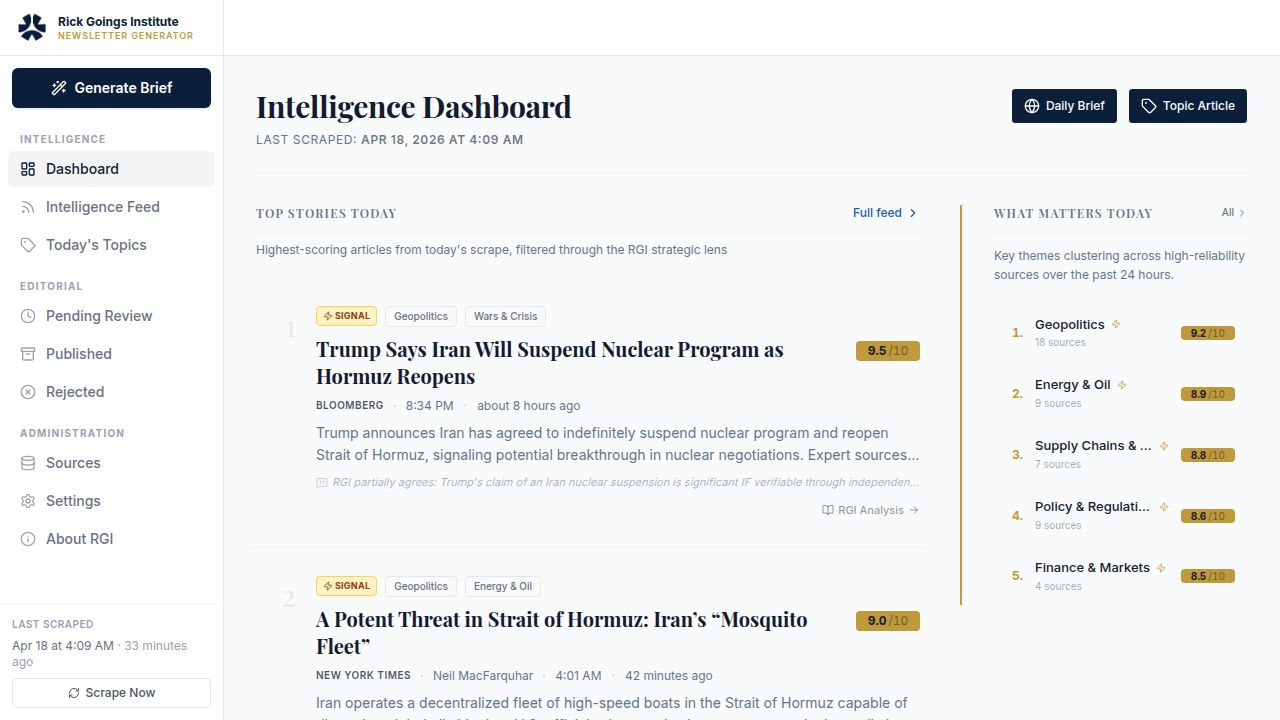
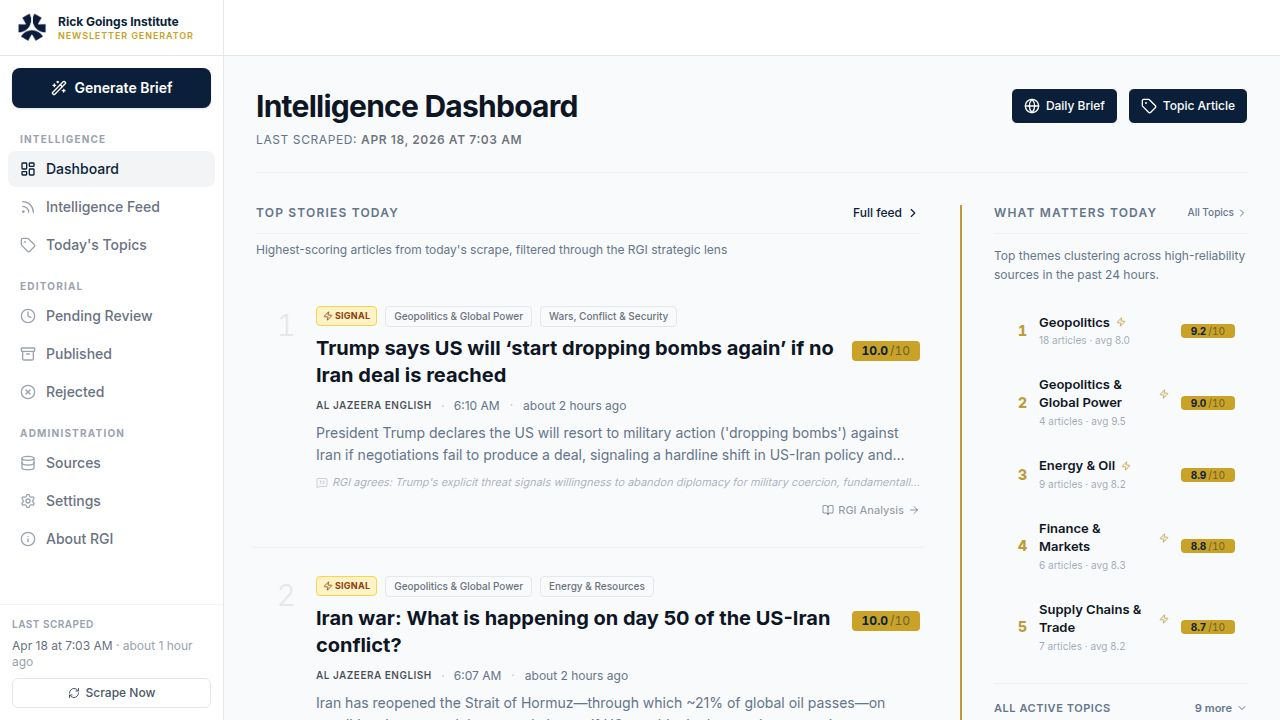
Update application and PDF designs for a consistent, professional look
Refactor UI elements and color variables across the application and PDF generator to implement a unified design system, including new typography, color palette, and spacing.

Replit-Commit-Author: Agent
Replit-Commit-Session-Id: 3881efc2-34ba-4643-8362-d1fa5954c660
Replit-Commit-Checkpoint-Type: full_checkpoint
Replit-Commit-Event-Id: f00bbded-45fe-4246-9da2-726b1b0424b5
Replit-Commit-Screenshot-Url: https://storage.googleapis.com/screenshot-production-us-central1/35dd0280-5cb6-4537-8cd2-e074db10bf36/3881efc2-34ba-4643-8362-d1fa5954c660/THni82T
Replit-Helium-Checkpoint-Created: true

diff --git a/artifacts/rgi-digest/src/index.css b/artifacts/rgi-digest/src/index.css
@@ -50,9 +50,12 @@
   --color-sidebar-accent-border: var(--sidebar-accent-border);
   --color-sidebar-ring: hsl(var(--sidebar-ring));
 
+  /* Brand gold — used sparingly for high-priority accents */
+  --color-gold: hsl(var(--gold));
+
   --font-sans: var(--app-font-sans);
-  --font-serif: var(--app-font-serif);
-  --font-mono: var(--app-font-mono);
+  --font-serif: var(--app-font-sans);
+  --font-mono: var(--app-font-sans);
 
   --radius-sm: calc(var(--radius) - 4px);
   --radius-md: calc(var(--radius) - 2px);
@@ -61,69 +64,73 @@
 }
 
 :root {
-  /* ── Light editorial theme — RGI Intelligence Dashboard ── */
+  /* ── RGI–Crummer Design System ─────────────────────────────────────────────
+     Primary:  #0B1F3B  →  hsl(215 69% 14%)
+     Gold:     #C9A227  →  hsl(45  68% 47%)
+     BG:       #F7F8FA  (soft near-white)
+     Text:     #111827  (near-black, readable)
+  ─────────────────────────────────────────────────────────────────────────── */
 
-  /* Main content: clean white/near-white background, dark navy text */
-  --background: 210 20% 98%;
-  --foreground: 222 44% 13%;
+  --background: 216 20% 97%;
+  --foreground: 222 44% 10%;
 
-  /* Cards: pure white with subtle border */
+  /* Cards: pure white with subtle border + shadow via Tailwind shadow-sm */
   --card: 0 0% 100%;
-  --card-foreground: 222 44% 13%;
-  --card-border: 220 14% 90%;
+  --card-foreground: 222 44% 10%;
+  --card-border: 220 14% 91%;
 
   --popover: 0 0% 100%;
-  --popover-foreground: 222 44% 13%;
+  --popover-foreground: 222 44% 10%;
   --popover-border: 220 14% 88%;
 
-  /* RGI blue — primary accent for buttons, links, highlights */
-  --primary: 213 72% 40%;
+  /* Primary — deep navy #0B1F3B */
+  --primary: 215 69% 14%;
   --primary-foreground: 0 0% 100%;
 
-  /* Secondary — very light gray for subtle UI elements */
+  /* Secondary — very light gray for subtle UI */
   --secondary: 210 16% 93%;
-  --secondary-foreground: 222 44% 22%;
+  --secondary-foreground: 222 44% 20%;
 
-  /* Muted — light gray surface, medium gray text */
+  /* Muted */
   --muted: 210 16% 94%;
   --muted-foreground: 215 16% 47%;
 
   --accent: 210 16% 93%;
-  --accent-foreground: 222 44% 22%;
+  --accent-foreground: 222 44% 20%;
 
   --destructive: 0 70% 48%;
   --destructive-foreground: 0 0% 100%;
 
   --border: 220 14% 90%;
   --input: 220 14% 90%;
-  --ring: 213 72% 40%;
+  --ring: 215 69% 14%;
 
-  /* ── Sidebar: stays dark navy as accent navigation ── */
+  /* Brand gold #C9A227 */
+  --gold: 45 68% 47%;
+
+  /* Sidebar stays white/light to match the nav panel */
   --sidebar: 222 47% 7%;
   --sidebar-foreground: 210 30% 92%;
   --sidebar-border: 220 30% 15%;
-  --sidebar-primary: 213 72% 62%;
+  --sidebar-primary: 215 60% 58%;
   --sidebar-primary-foreground: 0 0% 100%;
   --sidebar-accent: 220 30% 14%;
   --sidebar-accent-foreground: 210 30% 92%;
-  --sidebar-ring: 213 72% 55%;
+  --sidebar-ring: 215 60% 52%;
 
-  /* Typography stack */
-  --app-font-sans: "Inter", system-ui, sans-serif;
-  --app-font-serif: "Playfair Display", Georgia, "Times New Roman", serif;
-  --app-font-mono: "Space Mono", Menlo, monospace;
+  /* Single font stack — Inter throughout */
+  --app-font-sans: "Inter", ui-sans-serif, system-ui, -apple-system, sans-serif;
 
-  --radius: 0.375rem;
+  --radius: 0.5rem;
 
-  /* Light-mode outline/elevation tokens */
-  --button-outline: rgba(0, 0, 0, 0.08);
-  --badge-outline: rgba(0, 0, 0, 0.06);
-  --opaque-button-border-intensity: 9;
+  /* Elevation tokens */
+  --button-outline: rgba(0, 0, 0, 0.07);
+  --badge-outline: rgba(0, 0, 0, 0.05);
   --elevate-1: rgba(0, 0, 0, 0.02);
   --elevate-2: rgba(0, 0, 0, 0.04);
 }
 
-/* .dark applies only to the sidebar (via explicit class on <aside>) */
+/* .dark — sidebar only */
 .dark {
   --background: 222 47% 9%;
   --foreground: 210 30% 96%;
@@ -133,7 +140,7 @@
   --popover: 222 47% 13%;
   --popover-foreground: 210 30% 96%;
   --popover-border: 220 30% 20%;
-  --primary: 213 72% 55%;
+  --primary: 215 60% 58%;
   --primary-foreground: 0 0% 100%;
   --secondary: 220 30% 20%;
   --secondary-foreground: 210 30% 96%;
@@ -145,19 +152,20 @@
   --destructive-foreground: 210 30% 96%;
   --border: 220 30% 20%;
   --input: 220 30% 20%;
-  --ring: 213 72% 55%;
+  --ring: 215 60% 58%;
+  --gold: 45 68% 52%;
   --sidebar: 222 47% 7%;
   --sidebar-foreground: 210 30% 92%;
   --sidebar-border: 220 30% 15%;
-  --sidebar-primary: 213 72% 62%;
+  --sidebar-primary: 215 60% 62%;
   --sidebar-primary-foreground: 0 0% 100%;
   --sidebar-accent: 220 30% 14%;
   --sidebar-accent-foreground: 210 30% 92%;
-  --sidebar-ring: 213 72% 55%;
-  --button-outline: rgba(255,255,255, .10);
-  --badge-outline: rgba(255,255,255, .05);
-  --elevate-1: rgba(255,255,255, .03);
-  --elevate-2: rgba(255,255,255, .07);
+  --sidebar-ring: 215 60% 55%;
+  --button-outline: rgba(255, 255, 255, 0.08);
+  --badge-outline: rgba(255, 255, 255, 0.04);
+  --elevate-1: rgba(255, 255, 255, 0.03);
+  --elevate-2: rgba(255, 255, 255, 0.06);
 }
 
 @layer base {
@@ -172,36 +180,46 @@
     -moz-osx-font-smoothing: grayscale;
   }
 
-  /* Serif headings for editorial feel */
-  h1, h2 {
-    font-family: var(--app-font-serif);
+  /* Inter throughout — bold weight for major headings */
+  h1 {
+    font-family: var(--app-font-sans);
+    font-weight: 700;
+    letter-spacing: -0.025em;
+    line-height: 1.15;
+  }
+
+  h2 {
+    font-family: var(--app-font-sans);
     font-weight: 600;
-    letter-spacing: -0.01em;
+    letter-spacing: -0.02em;
     line-height: 1.2;
   }
 
-  /* Keep h3+ in sans for hierarchy */
   h3, h4, h5, h6 {
+    font-family: var(--app-font-sans);
     font-weight: 600;
     letter-spacing: -0.01em;
+    line-height: 1.3;
   }
 }
 
-/* RGI editorial typography utilities */
 @layer utilities {
+  /* Bold display text — Inter 700, tight tracking */
   .font-display {
-    font-family: var(--app-font-serif);
-    font-weight: 600;
+    font-family: var(--app-font-sans);
+    font-weight: 700;
+    letter-spacing: -0.02em;
   }
 
+  /* Long-form reading text */
   .text-editorial {
-    font-family: var(--app-font-serif);
-    font-size: 1.05rem;
+    font-family: var(--app-font-sans);
+    font-size: 0.9375rem;
     line-height: 1.75;
     font-weight: 400;
   }
 
-  /* Stricter body text for briefs */
+  /* Intelligence brief body text */
   .prose-brief {
     font-family: var(--app-font-sans);
     font-size: 0.9375rem;
@@ -209,16 +227,35 @@
     color: hsl(var(--muted-foreground));
   }
 
-  /* RGI blue divider */
+  /* Thin separator — uses primary navy at low opacity */
   .rgi-divider {
     border: none;
-    border-top: 1px solid hsl(213 72% 40% / 0.18);
+    border-top: 1px solid hsl(var(--primary) / 0.14);
   }
 
-  /* Sidebar nav active state */
+  /* Gold accent border — used sparingly */
+  .border-gold {
+    border-color: hsl(var(--gold));
+  }
+
+  /* Active nav state */
   .nav-active {
-    background-color: hsl(213 72% 55% / 0.14);
-    color: hsl(213 72% 72%);
-    border-left: 2px solid hsl(213 72% 62%);
+    background-color: hsl(var(--primary) / 0.07);
+    color: hsl(var(--primary));
+    border-left: 2px solid hsl(var(--primary));
+  }
+
+  /* Cards with consistent elevation */
+  .card-elevated {
+    @apply bg-white rounded-lg border border-card-border shadow-sm;
+  }
+
+  /* Section label — uppercase, tracked, small */
+  .label-section {
+    font-size: 0.625rem;
+    font-weight: 700;
+    text-transform: uppercase;
+    letter-spacing: 0.1em;
+    color: hsl(var(--muted-foreground));
   }
 }

diff --git a/artifacts/rgi-digest/src/pages/dashboard.tsx b/artifacts/rgi-digest/src/pages/dashboard.tsx
@@ -46,7 +46,7 @@ function ScoreBadge({ score, size = "md" }: { score: number; size?: "sm" | "md" 
         className={`inline-flex items-center justify-center rounded font-bold tabular-nums leading-none shrink-0 ${
           size === "sm" ? "text-[10px] px-1.5 py-0.5 min-w-[3.4rem]" : "text-xs px-2.5 py-1 min-w-[4rem]"
         }`}
-        style={{ backgroundColor: "#C09A3A", color: "#1A1A2E" }}
+        style={{ backgroundColor: "#C9A227", color: "#0B1F3B" }}
       >
         {score.toFixed(1)}<span className="opacity-50 font-normal ml-0.5">/10</span>
       </span>
@@ -372,7 +372,7 @@ function TopStoriesSection({ articles, onNavigateFeed }: { articles: TopArticle[
                       onClick={() => open(article)}
                       className="text-[11px] font-medium flex items-center gap-1 transition-colors"
                       style={{ color: "rgba(11,31,58,0.45)" }}
-                      onMouseEnter={(e) => (e.currentTarget.style.color = "#C09A3A")}
+                      onMouseEnter={(e) => (e.currentTarget.style.color = "#C9A227")}
                       onMouseLeave={(e) => (e.currentTarget.style.color = "rgba(11,31,58,0.45)")}
                       title="View RGI analysis"
                     >
@@ -516,7 +516,7 @@ function WhatMattersTodayPanel({
   return (
     <div
       className="w-72 shrink-0 flex flex-col gap-4 pl-8"
-      style={{ borderLeft: "2px solid #C09A3A" }}
+      style={{ borderLeft: "2px solid #C9A227" }}
     >
       {/* Header */}
       <div className="flex items-center justify-between" style={{ borderBottom: "1px solid #F0F0F0", paddingBottom: "12px" }}>
@@ -547,7 +547,7 @@ function WhatMattersTodayPanel({
             >
               <span
                 className="text-sm font-black w-5 text-right shrink-0 tabular-nums leading-none"
-                style={{ color: "#C09A3A" }}
+                style={{ color: "#C9A227" }}
               >
                 {i + 1}
               </span>
@@ -557,7 +557,7 @@ function WhatMattersTodayPanel({
                     {ti.topic}
                   </span>
                   {ti.hasEmergingSignal && (
-                    <Zap className="h-2.5 w-2.5 shrink-0" style={{ color: "#C09A3A" }} />
+                    <Zap className="h-2.5 w-2.5 shrink-0" style={{ color: "#C9A227" }} />
                   )}
                 </div>
                 <p className="text-[10px] text-muted-foreground/60 mt-0.5">
@@ -618,7 +618,7 @@ function WhatMattersTodayPanel({
                   </div>
                   <span
                     className="text-[10px] font-semibold tabular-nums shrink-0"
-                    style={{ color: ti.importanceScore >= 8 ? "#C09A3A" : ti.importanceScore >= 6.5 ? "#3B82F6" : "#9CA3AF" }}
+                    style={{ color: ti.importanceScore >= 8 ? "#C9A227" : ti.importanceScore >= 6.5 ? "#3B82F6" : "#9CA3AF" }}
                   >
                     {ti.importanceScore.toFixed(1)}
                   </span>
@@ -732,7 +732,7 @@ export default function Dashboard() {
             disabled={briefLoading || !hasArticles}
             size="sm"
             className="gap-1.5 text-xs h-9"
-            style={{ backgroundColor: "#0B1F3A", color: "white" }}
+            style={{ backgroundColor: "#0B1F3B", color: "white" }}
             data-testid="btn-generate-daily-brief"
           >
             {briefLoading ? (
@@ -747,7 +747,7 @@ export default function Dashboard() {
             disabled={!hasArticles}
             size="sm"
             className="gap-1.5 text-xs h-9"
-            style={{ backgroundColor: "#0B1F3A", color: "white" }}
+            style={{ backgroundColor: "#0B1F3B", color: "white" }}
             data-testid="btn-generate-topic-article"
           >
             <Tag className="h-3.5 w-3.5" />

diff --git a/artifacts/rgi-digest/src/components/layout/sidebar-layout.tsx b/artifacts/rgi-digest/src/components/layout/sidebar-layout.tsx
@@ -54,8 +54,8 @@ const NAV_GROUPS = [
   },
 ];
 
-const NAVY = "#0B1F3A";
-const GOLD = "#C09A3A";
+const NAVY = "#0B1F3B";
+const GOLD = "#C9A227";
 
 export function SidebarLayout({ children }: { children: React.ReactNode }) {
   const [location] = useLocation();

diff --git a/artifacts/rgi-digest/src/components/selection-regenerate-textarea.tsx b/artifacts/rgi-digest/src/components/selection-regenerate-textarea.tsx
@@ -16,8 +16,8 @@ interface SelectionRegenerateTa {
   "data-testid"?: string;
 }
 
-const NAVY = "#0B1F3A";
-const GOLD = "#C09A3A";
+const NAVY = "#0B1F3B";
+const GOLD = "#C9A227";
 
 function countWords(text: string) {
   return text.trim().split(/\s+/).filter(Boolean).length;

diff --git a/artifacts/api-server/src/lib/pdf-generator.ts b/artifacts/api-server/src/lib/pdf-generator.ts
@@ -11,7 +11,7 @@ export interface ArticleWithSources extends DigestArticle {
 
 // ── Palette ────────────────────────────────────────────────────────────────────
 const C = {
-  navy:     "#0F2B4C" as string,   // header & section labels
+  navy:     "#0B1F3B" as string,   // header & section labels
   ink:      "#111111" as string,   // title, bold emphasis
   body:     "#1A1A1A" as string,   // body text — near-black for readability
   mid:      "#555555" as string,   // secondary text

diff --git a/artifacts/rgi-digest/index.html b/artifacts/rgi-digest/index.html
@@ -7,7 +7,7 @@
     <link rel="icon" type="image/svg+xml" href="/favicon.svg" />
     <link rel="preconnect" href="https://fonts.googleapis.com">
     <link rel="preconnect" href="https://fonts.gstatic.com" crossorigin>
-    <link href="https://fonts.googleapis.com/css2?family=Playfair+Display:ital,wght@0,400;0,600;0,700;1,400;1,600&family=Inter:wght@400;500;600;700&display=swap" rel="stylesheet">
+    <link href="https://fonts.googleapis.com/css2?family=Inter:wght@300;400;500;600;700;800&display=swap" rel="stylesheet">
   </head>
   <body>
     <div id="root"></div>

diff --git a/replit.md b/replit.md
@@ -14,9 +14,24 @@ pnpm workspace monorepo using TypeScript with:
 - **Zod validation**: Auto-generated from OpenAPI spec (`lib/api-zod`)
 - **AI**: Claude via Replit Anthropic integration (`lib/integrations-anthropic-ai`)
 
-## Design
+## Design System
 
-Dark navy/white/gold palette. No emojis. HBR/Foreign Affairs aesthetic. Serif headings, clean cards.
+**Font**: Inter throughout — single font stack, no Playfair Display or Space Mono.
+- h1: `font-weight: 700`, `letter-spacing: -0.025em`
+- h2: `font-weight: 600`, `letter-spacing: -0.02em`
+- Body / prose: `font-size: 0.9375rem`, `line-height: 1.7`
+
+**Colors** (CSS variables in `src/index.css`):
+- Primary navy: `#0B1F3B` → `hsl(215 69% 14%)` — buttons, active states, headings
+- Gold accent: `#C9A227` → `hsl(45 68% 47%)` — score badges, rank numbers, brand label (used sparingly)
+- Background: `hsl(216 20% 97%)` — soft near-white
+- Card: `#FFFFFF` with `border: 1px solid hsl(220 14% 91%)`, `box-shadow: shadow-sm`
+
+**Spacing**: Tailwind 4-unit base (1 unit = 4px). Standard steps: 2 (8px), 4 (16px), 6 (24px), 8 (32px).
+
+**PDF palette** (`pdf-generator.ts` `C` constant): navy `#0B1F3B`, ink `#111111`, body `#1A1A1A`, mid `#555555`, muted `#888888`, hairline `#CCCCCC`.
+
+**Aesthetic**: Institutional, HBR/Foreign Affairs-adjacent. No emojis. White sidebar navigation. Thin horizontal rules as section separators.
 
 ## Stack
 